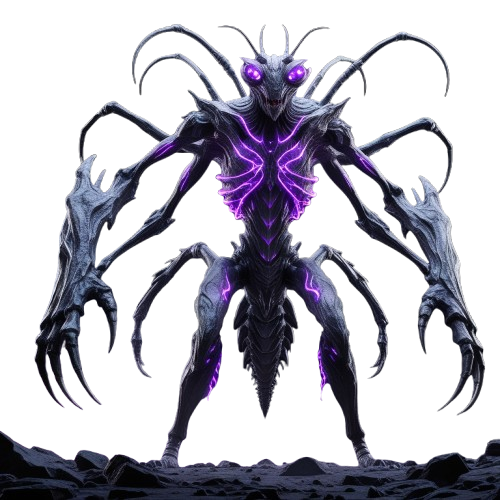
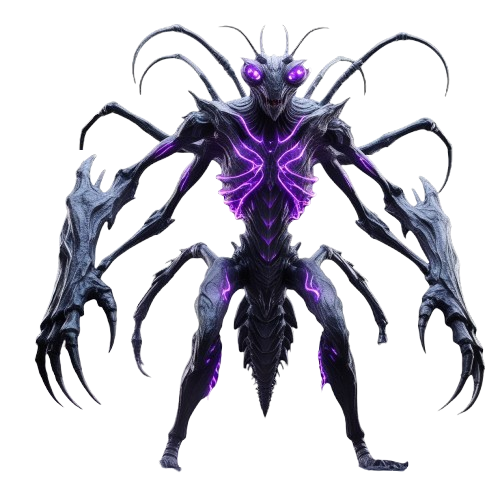
Древний Страж: улей с коконами, bio-luminescence, слизь (v2.5.38)
- boss_spider.png — паук-богомол с фиолетовым свечением (skin 05)
- bg/spider.png — пещера-улей с коконами и венами (bg 5)
- CSS .bt-spider:
  · фон + animation:wb-spider-bg-breathe 6s — медленный зум 100→103%
    + яркость ±15% (органическое «дыхание» улья)
  · ::before тёмно-фиолетовый туман у пола
  · .wb-bimg2: --boss-glow:#bf00ff, маска лап 18%, тройная анимация:
    - wb-bfloat 3.2s (плавное парение)
    - wb-spider-glow 6s (синхронно с фоном — bio-luminescence)
    - wb-spider-vibrate 0.14s (микро-дрожание ±0.5px, насекомое)
  · .wb-spider-slime — 8 фиолетовых капель падают сверху, z-index:7
    (перед боссом), скорости 4.5–6.5с, разные delay

JS: добавил <div class="wb-spider-slime">…</div> в boss-zone HTML.
Слизь скрыта по умолчанию (display:none), показывается только под .bt-spider.

Превью: /boss_scene_spider.html

diff --git a/webapp/boss_scene_spider.html b/webapp/boss_scene_spider.html
@@ -1,0 +1,164 @@
+<!doctype html>
+<html lang="ru"><head>
+<meta charset="utf-8">
+<meta name="viewport" content="width=390,initial-scale=1">
+<title>WB · Боевая сцена · ДРЕВНИЙ СТРАЖ</title>
+<style>
+  *{box-sizing:border-box;margin:0;padding:0}
+  html,body{height:100%}
+  body{background:#020005;color:#e0e0e0;font:14px -apple-system,Segoe UI,Roboto,sans-serif;
+    display:flex;align-items:center;justify-content:center;min-height:100vh;padding:18px;}
+  .row{display:flex;flex-wrap:wrap;align-items:flex-start;gap:18px;}
+
+  .scene{position:relative;width:390px;height:680px;border-radius:14px;overflow:hidden;
+    background:#08020c;border:1px solid rgba(191,0,255,.35);
+    box-shadow:0 0 60px rgba(150,0,220,.3);}
+
+  /* ── 1. ФОН — улей с коконами, медленный «зум» 1-2% ── */
+  .bg{position:absolute;inset:0;z-index:1;
+    background-image:url('bosses/bg/spider.png');
+    background-size:100% auto;background-position:center bottom;background-repeat:no-repeat;
+    animation:bg-breathe 6s ease-in-out infinite;}
+  @keyframes bg-breathe{
+    0%,100%{background-size:100% auto;filter:brightness(.92) saturate(1.05)}
+    50%   {background-size:103% auto;filter:brightness(1.08) saturate(1.2)}}
+  .bg::after{content:"";position:absolute;left:0;right:0;bottom:0;height:36%;
+    background:linear-gradient(to top,
+      rgba(15,0,30,.85) 0%, rgba(40,5,60,.5) 35%,
+      rgba(40,5,60,.15) 70%, transparent 100%);
+    pointer-events:none;}
+
+  /* ── 2. БОСС — чуть ниже центра, ноги на «органических венах» ── */
+  .boss-wrap{position:absolute;left:50%;bottom:9%;z-index:5;
+    transform:translateX(-50%);pointer-events:none;
+    height:64%;}
+  .boss{height:100%;width:auto;display:block;
+    -webkit-mask-image:linear-gradient(to bottom,
+      black 0%, black 82%, rgba(0,0,0,.55) 92%, transparent 100%);
+    mask-image:linear-gradient(to bottom,
+      black 0%, black 82%, rgba(0,0,0,.55) 92%, transparent 100%);
+    /* float + glow (синхронно с фоном 6s) + vibrate (быстро) */
+    animation:boss-breathe 3.2s ease-in-out infinite,
+              boss-glow 6s ease-in-out infinite,
+              boss-vibrate .14s linear infinite;}
+  @keyframes boss-breathe{
+    0%,100%{transform:scale(1)    translateY(0)}
+    50%   {transform:scale(1.025) translateY(-3px)}}
+  @keyframes boss-glow{
+    0%,100%{filter:
+      drop-shadow(0 0 12px rgba(191,0,255,.7))
+      drop-shadow(0 0 24px rgba(150,0,220,.5))
+      brightness(1)
+      saturate(1.1);}
+    50%{filter:
+      drop-shadow(0 0 22px rgba(220,80,255,.95))
+      drop-shadow(0 0 42px rgba(180,40,240,.8))
+      brightness(1.15)
+      saturate(1.3);}}
+  @keyframes boss-vibrate{
+    0%  {margin-left:0; margin-top:0}
+    25% {margin-left:.5px; margin-top:-.4px}
+    50% {margin-left:-.4px; margin-top:.4px}
+    75% {margin-left:.4px; margin-top:.4px}
+    100%{margin-left:-.5px; margin-top:-.4px}}
+
+  /* ── 3. СЛОЙ СЛИЗИ — фиолетовые капли падают, перед боссом (z:7) ── */
+  .slime{position:absolute;inset:0;z-index:7;pointer-events:none;overflow:hidden;}
+  .drip{position:absolute;top:-20px;width:3px;height:14px;
+    border-radius:50% 50% 50% 50% / 30% 30% 70% 70%;
+    background:linear-gradient(180deg, rgba(180,40,255,.8), rgba(120,20,200,.95));
+    box-shadow:0 0 6px rgba(191,0,255,.6);
+    animation:drip-fall 5s linear infinite;}
+  .drip.s1{left:12%;animation-delay:.0s}
+  .drip.s2{left:28%;animation-delay:1.5s;animation-duration:6s}
+  .drip.s3{left:46%;animation-delay:.7s;animation-duration:4.5s}
+  .drip.s4{left:64%;animation-delay:2.2s;animation-duration:5.5s}
+  .drip.s5{left:82%;animation-delay:1.0s;animation-duration:6.5s}
+  .drip.s6{left:38%;animation-delay:3.5s;animation-duration:5s}
+  .drip.s7{left:72%;animation-delay:4.2s;animation-duration:5.8s}
+  .drip.s8{left:18%;animation-delay:3.0s;animation-duration:6.2s}
+  @keyframes drip-fall{
+    0%{transform:translateY(0) scaleY(1);opacity:0}
+    10%{opacity:.95}
+    85%{opacity:.7}
+    100%{transform:translateY(800px) scaleY(1.4);opacity:0}}
+
+  /* ── ЧАСТИЦЫ парящие фиолетовые ── */
+  .vfx{position:absolute;inset:0;z-index:6;pointer-events:none;overflow:hidden;}
+  .p{position:absolute;width:5px;height:5px;border-radius:50%;
+    background:#cc66ff;
+    box-shadow:0 0 10px #cc66ff,0 0 20px #aa44ff;
+    opacity:0;animation:p-up 5.5s linear infinite;}
+  .p.s2{width:3px;height:3px;animation-duration:7s}
+  .p.s3{width:7px;height:7px;animation-duration:6.5s;opacity:.6}
+  @keyframes p-up{
+    0%{transform:translateY(0) scale(.3);opacity:0}
+    10%{opacity:.95}85%{opacity:.6}
+    100%{transform:translateY(-440px) scale(1);opacity:0}}
+  .p:nth-child(1){left:8%;bottom:8%;animation-delay:.0s}
+  .p:nth-child(2){left:24%;bottom:8%;animation-delay:1.4s}
+  .p:nth-child(3){left:40%;bottom:6%;animation-delay:.7s}
+  .p:nth-child(4){left:56%;bottom:8%;animation-delay:2.1s}
+  .p:nth-child(5){left:72%;bottom:6%;animation-delay:.3s}
+  .p:nth-child(6){left:88%;bottom:8%;animation-delay:1.8s}
+  .p:nth-child(7){left:16%;bottom:7%;animation-delay:3.0s}
+  .p:nth-child(8){left:48%;bottom:7%;animation-delay:3.7s}
+  .p:nth-child(9){left:80%;bottom:7%;animation-delay:2.5s}
+  .p:nth-child(10){left:32%;bottom:6%;animation-delay:4.0s}
+
+  .title{position:absolute;top:14px;left:14px;right:14px;z-index:10;
+    display:flex;justify-content:space-between;align-items:center;
+    font-size:11px;font-weight:800;letter-spacing:2px;color:#cc66ff;
+    text-shadow:0 0 8px rgba(180,40,240,.7);text-transform:uppercase;}
+  .title .hp{font-family:'Courier New',monospace;color:#ff4488;}
+
+  .legend{max-width:340px;font-size:12px;line-height:1.6;color:#ddbbee;}
+  .legend h3{color:#cc66ff;font-size:14px;margin-bottom:10px;letter-spacing:1px;}
+  .legend code{background:rgba(180,40,255,.1);padding:1px 5px;border-radius:3px;color:#eebbff;font-size:11px;}
+  .legend ul{padding-left:18px;margin:6px 0;}
+  .legend li{margin-bottom:4px;}
+</style>
+</head>
+<body>
+<div class="row">
+  <div class="scene">
+    <div class="bg"></div>
+    <div class="title">
+      <span>🕷 ДРЕВНИЙ СТРАЖ</span>
+      <span class="hp">HP 10 800 / 15 500</span>
+    </div>
+    <div class="boss-wrap">
+      <img class="boss" src="bosses/boss_spider.png" alt="Spider">
+    </div>
+    <div class="vfx">
+      <div class="p"></div><div class="p s2"></div><div class="p s3"></div><div class="p"></div>
+      <div class="p s2"></div><div class="p"></div><div class="p s3"></div><div class="p s2"></div>
+      <div class="p"></div><div class="p s3"></div>
+    </div>
+    <div class="slime">
+      <div class="drip s1"></div><div class="drip s2"></div><div class="drip s3"></div>
+      <div class="drip s4"></div><div class="drip s5"></div><div class="drip s6"></div>
+      <div class="drip s7"></div><div class="drip s8"></div>
+    </div>
+  </div>
+
+  <div class="legend">
+    <h3>📋 Древний Страж — что собрано</h3>
+    <ul>
+      <li><b>Фон-улей</b> — пещера с фиолетовыми коконами и венами</li>
+      <li><b>Дыхание фона</b> — медленный зум 100→103% за 6с,
+        яркость ±15% (органическая жизнь улья)</li>
+      <li><b>Босс чуть ниже</b> — bottom 9%, лапы на «венах» пола</li>
+      <li><b>Bio-luminescence</b> — <code>drop-shadow #bf00ff</code>
+        пульсирует синхронно с фоном (6с цикл)</li>
+      <li><b>Микро-вибрация</b> — лёгкое дрожание ±0.5px каждые 0.14с
+        (ощущение насекомого с напряжёнными лапами)</li>
+      <li><b>Маска лап</b> — нижние 18% растворяются в пол</li>
+      <li><b>Слой слизи</b> <code>z:7</code> — 8 фиолетовых капель
+        падают сверху на фоне босса, разные скорости 4.5–6.5с</li>
+      <li><b>10 парящих частиц</b> — фиолетовая пыльца снизу вверх</li>
+    </ul>
+  </div>
+</div>
+</body>
+</html>

diff --git a/webapp/wb_html_battle_css.js b/webapp/wb_html_battle_css.js
@@ -85,6 +85,44 @@ window.WBBattleCSS = (() => {
     rgba(0,0,0,.85) 0%, rgba(15,5,35,.55) 35%,
     rgba(15,5,35,.15) 70%, transparent 100%);}
 
+/* Древний Страж — улей с фиолетовыми коконами. Bio-luminescence:
+   фон медленно «дышит» зумом + коконы пульсируют синхронно с боссом. */
+.wb-boss-zone.bt-spider{
+  background-image:url('bosses/bg/spider.png');
+  background-size:cover;background-position:center bottom;background-color:#08020c;
+  /* Медленный зум 1-2% — органическое дыхание улья */
+  animation:wb-spider-bg-breathe 6s ease-in-out infinite;}
+@keyframes wb-spider-bg-breathe{
+  0%,100%{background-size:100% auto;filter:brightness(.92) saturate(1.05)}
+  50%   {background-size:103% auto;filter:brightness(1.08) saturate(1.2)}}
+/* Тёмный туман с фиолетовым отливом — органические вены на полу */
+.wb-boss-zone.bt-spider::before{content:"";position:absolute;left:0;right:0;bottom:0;
+  height:36%;pointer-events:none;z-index:1;
+  background:linear-gradient(to top,
+    rgba(15,0,30,.85) 0%, rgba(40,5,60,.5) 35%,
+    rgba(40,5,60,.15) 70%, transparent 100%);}
+/* Слой слизи — фиолетовые капли падают сверху, перед боссом (z-index: 7).
+   По умолчанию скрыт — показывается только под .bt-spider */
+.wb-spider-slime{position:absolute;inset:0;pointer-events:none;z-index:7;overflow:hidden;display:none;}
+.wb-boss-zone.bt-spider .wb-spider-slime{display:block;}
+.wb-spider-slime .drip{position:absolute;top:-20px;width:3px;height:14px;border-radius:50% 50% 50% 50% / 30% 30% 70% 70%;
+  background:linear-gradient(180deg, rgba(180,40,255,.8), rgba(120,20,200,.95));
+  box-shadow:0 0 6px rgba(191,0,255,.6);
+  animation:wb-spider-drip 5s linear infinite;}
+.wb-spider-slime .drip.s1{left:12%;animation-delay:.0s}
+.wb-spider-slime .drip.s2{left:28%;animation-delay:1.5s;animation-duration:6s}
+.wb-spider-slime .drip.s3{left:46%;animation-delay:.7s;animation-duration:4.5s}
+.wb-spider-slime .drip.s4{left:64%;animation-delay:2.2s;animation-duration:5.5s}
+.wb-spider-slime .drip.s5{left:82%;animation-delay:1.0s;animation-duration:6.5s}
+.wb-spider-slime .drip.s6{left:38%;animation-delay:3.5s;animation-duration:5s}
+.wb-spider-slime .drip.s7{left:72%;animation-delay:4.2s;animation-duration:5.8s}
+.wb-spider-slime .drip.s8{left:18%;animation-delay:3.0s;animation-duration:6.2s}
+@keyframes wb-spider-drip{
+  0%{transform:translateY(0) scaleY(1);opacity:0}
+  10%{opacity:.95}
+  85%{opacity:.7}
+  100%{transform:translateY(800px) scaleY(1.4);opacity:0}}
+
 /* Каменный Голем — алтарь с зелёным кристаллом-резонатором.
    Кристалл за боссом «дышит» в такт с боссом — эффект резонанса. */
 .wb-boss-zone.bt-poison{
@@ -153,6 +191,35 @@ window.WBBattleCSS = (() => {
 .wb-boss-zone.bt-lich .wb-bimg2{
   -webkit-mask-image:linear-gradient(to bottom, black 0%, black 78%, rgba(0,0,0,.55) 90%, transparent 100%);
   mask-image:linear-gradient(to bottom, black 0%, black 78%, rgba(0,0,0,.55) 90%, transparent 100%);}
+
+/* Древний Страж: фиолетовое bio-luminescence свечение + быстрая вибрация
+   конечностей (насекомое). Свечение пульсирует синхронно с фоном-ульем. */
+.wb-boss-zone.bt-spider .wb-bimg2{
+  --boss-glow:#bf00ff;
+  -webkit-mask-image:linear-gradient(to bottom, black 0%, black 82%, rgba(0,0,0,.55) 92%, transparent 100%);
+  mask-image:linear-gradient(to bottom, black 0%, black 82%, rgba(0,0,0,.55) 92%, transparent 100%);
+  /* float (плавно вверх-вниз) + glow (синхронно с фоном 6s) + vibrate (быстро) */
+  animation:wb-bfloat 3.2s ease-in-out infinite,
+            wb-spider-glow 6s ease-in-out infinite,
+            wb-spider-vibrate .14s linear infinite;}
+@keyframes wb-spider-glow{
+  0%,100%{filter:
+    drop-shadow(0 0 12px rgba(191,0,255,.7))
+    drop-shadow(0 0 24px rgba(150,0,220,.5))
+    brightness(1)
+    saturate(1.1);}
+  50%{filter:
+    drop-shadow(0 0 22px rgba(220,80,255,.95))
+    drop-shadow(0 0 42px rgba(180,40,240,.8))
+    brightness(1.15)
+    saturate(1.3);}}
+/* Микро-вибрация конечностей — лёгкое дрожание ±0.5px очень быстро */
+@keyframes wb-spider-vibrate{
+  0%  {margin-left:0; margin-top:0}
+  25% {margin-left:.5px; margin-top:-.4px}
+  50% {margin-left:-.4px; margin-top:.4px}
+  75% {margin-left:.4px; margin-top:.4px}
+  100%{margin-left:-.5px; margin-top:-.4px}}
 
 /* Каменный Голем: ярко-зелёное свечение + дыхание в резонанс с кристаллом */
 .wb-boss-zone.bt-poison .wb-bimg2{

diff --git a/webapp/wb_html_battle.js b/webapp/wb_html_battle.js
@@ -90,6 +90,7 @@
   <div class="wb-wp" style="top:40%;left:63%" data-act="hit"></div>
   <div class="wb-wp" style="top:55%;left:38%" data-act="hit"></div>
   <div class="wb-tap-hint">⚡ ТАП — УДАР ⚡</div>
+  <div class="wb-spider-slime"><div class="drip s1"></div><div class="drip s2"></div><div class="drip s3"></div><div class="drip s4"></div><div class="drip s5"></div><div class="drip s6"></div><div class="drip s7"></div><div class="drip s8"></div></div>
 </div>
 ${isDead ? deadHTML : (ps ? `<div class="wb-plhp"><span class="wb-plhp-i">❤</span><div class="wb-plhp-tr"><div class="wb-plhp-f" id="wb-pl-bar" style="width:${ppct}%"></div></div><span class="wb-plhp-v" id="wb-pl-hp">${ps.current_hp||0}/${ps.max_hp||100}</span></div>` : '')}
 <div class="wb-ultra">

diff --git a/version.py b/version.py
@@ -3,9 +3,9 @@ version.py — текущая версия проекта Duel Arena.
 Обновляется при каждом значимом изменении.
 """
 
-VERSION = "2.5.37"
-VERSION_LABEL = "v2.5.37 — Каменный Голем: алтарь с кристаллом, резонансное дыхание, зелёное свечение"
+VERSION = "2.5.38"
+VERSION_LABEL = "v2.5.38 — Древний Страж: улей с коконами, bio-luminescence, вибрация, слой слизи"
 
 # Игровая версия для UI (bot / mini app). Один источник истины.
 # При деплое с изменениями кода увеличивать на +0.01 (например 2.01 → 2.02).
-GAME_VERSION = "10.11"
+GAME_VERSION = "10.12"
